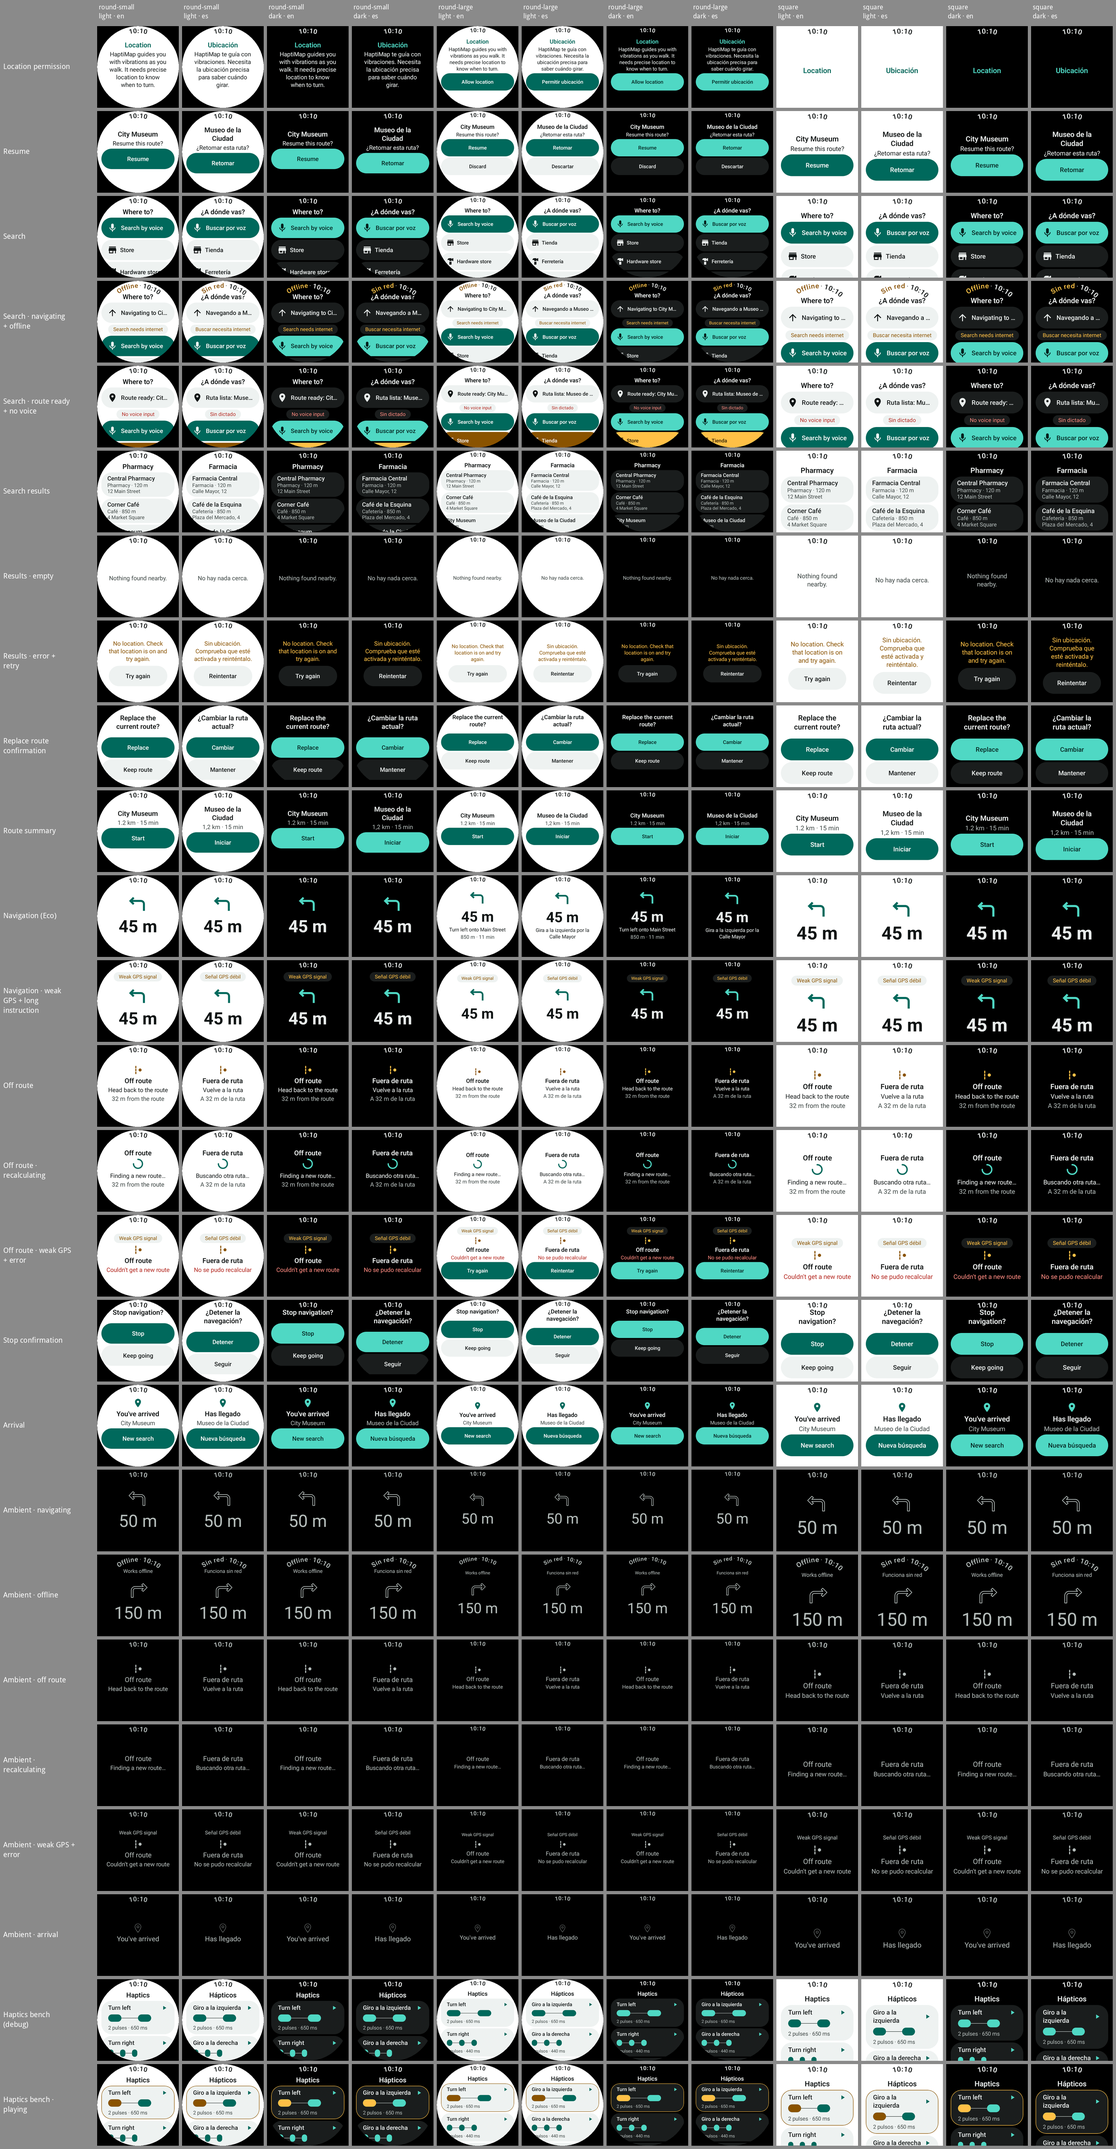
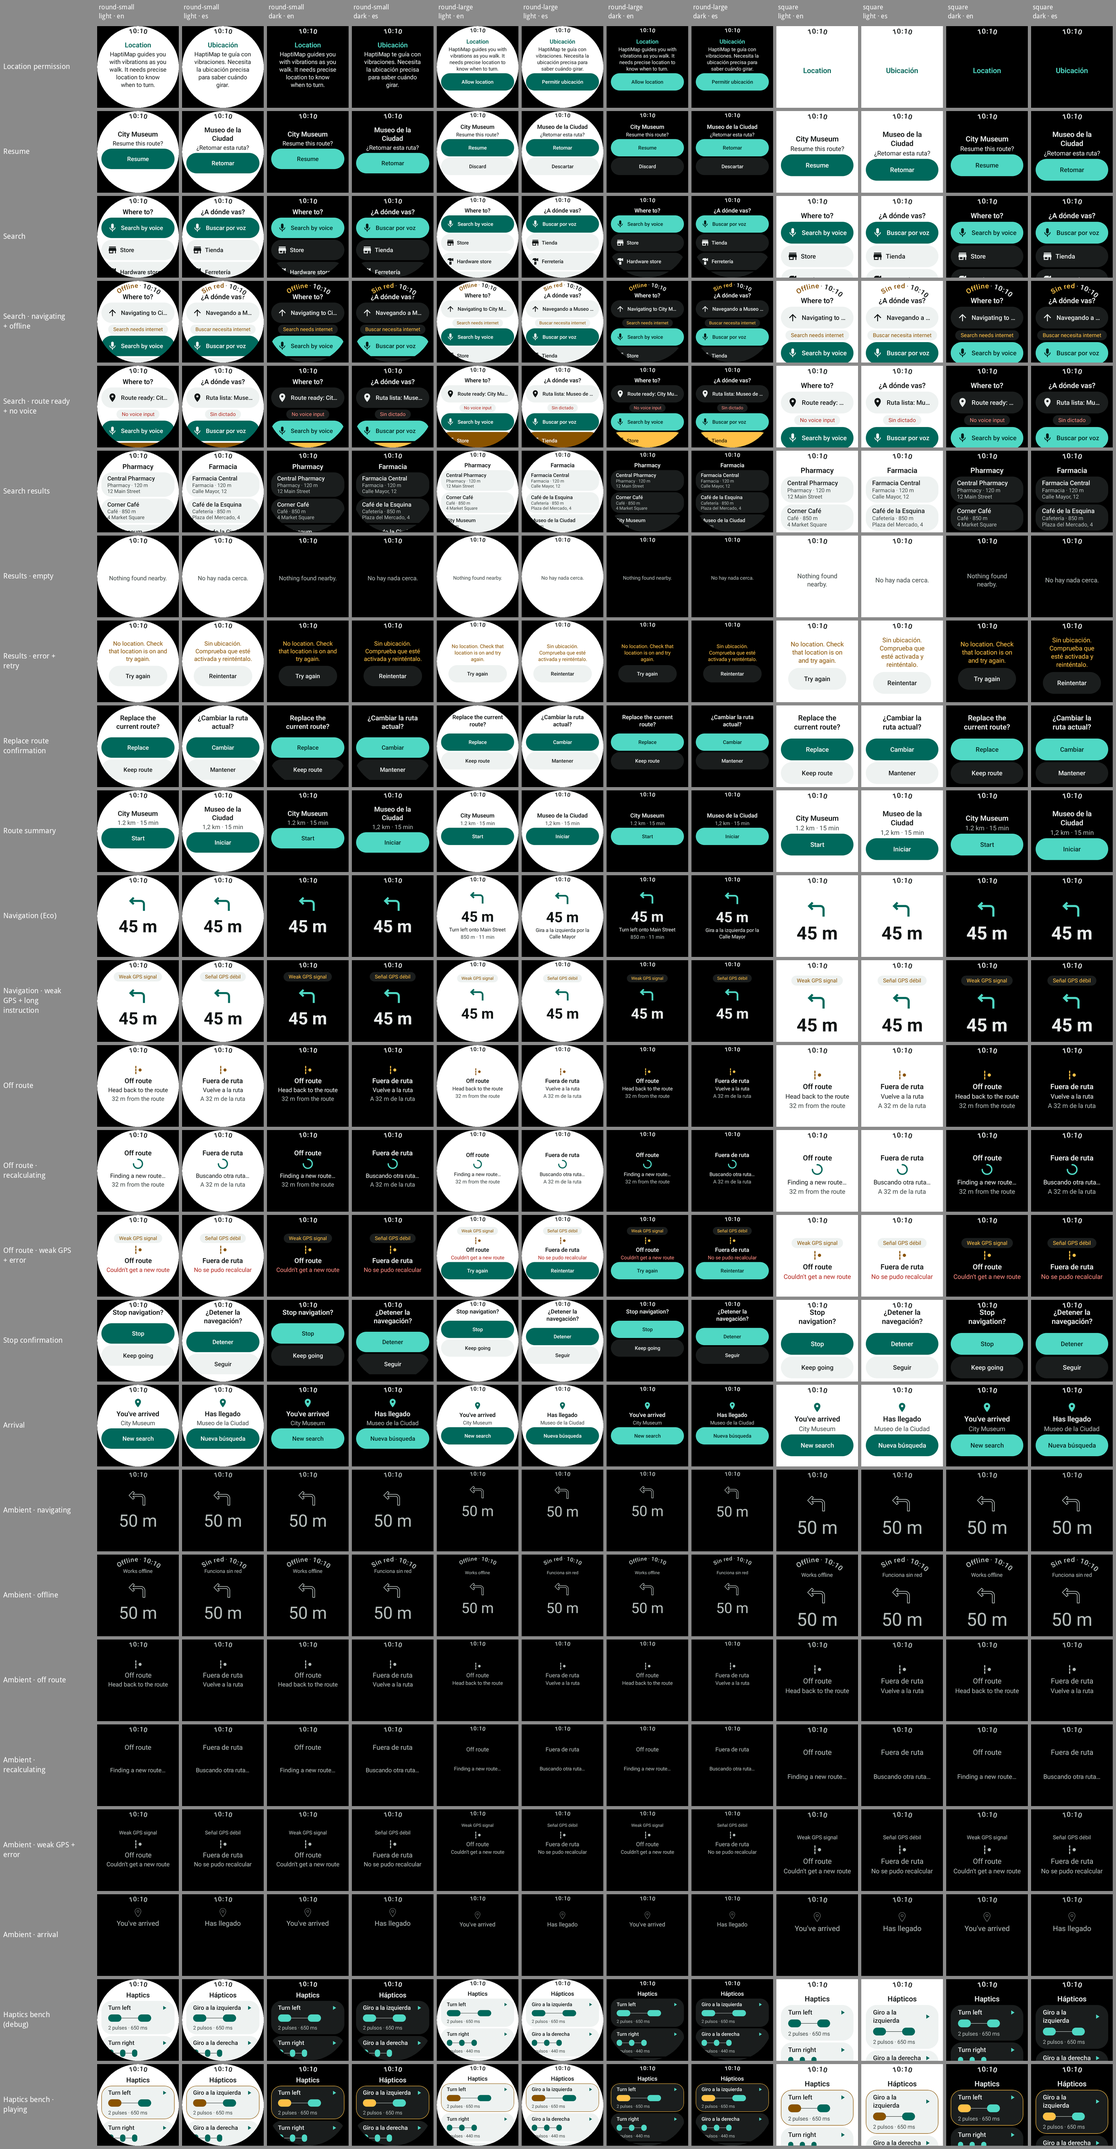
documentar el seguimiento del paso 12: la vista en su sitio, decisiones y línea base de lint
Paso 12: el arreglo (opción B), su test y la verificación en el emulador en las tres formas; aprobados
el paso de 100 m, la línea base de 22 avisos en :app y el ambiente sin navegación tal cual; Live Updates
para la versión 2. DESIGN_SYSTEM §18 y ARCHITECTURE al día, hoja de revisión regenerada y una línea en la
lista del paso 14.

diff --git a/docs/steps/12-pantalla-eco-aod.md b/docs/steps/12-pantalla-eco-aod.md
@@ -26,7 +26,7 @@ Before it, a separate fix: on square screens the curved clock touched the search
 | Decision | Why |
 |---|---|
 | Important events only vibrate; they never wake the screen | **Agreed.** Haptics are the main channel and the ambient view already shows the change; waking needs a screen-on wake lock and costs battery |
-| Ambient distance in coarse steps: 10 m below 100 m, 50 m to 500 m, 100 m to 1 km, 500 m beyond (nearest) | **Agreed.** The ambient state only changes on a step, a maneuver or a status, so the view redraws a few times a minute while walking instead of every second |
+| Ambient distance in coarse steps: 10 m below 100 m, 50 m to 500 m, 100 m to 1 km, 500 m beyond (nearest) | **Agreed**, including the 100 m step from 500 m to 1 km (approved in the follow-up, 2026-11-05). The ambient state only changes on a step, a maneuver or a status, so the view redraws a few times a minute while walking instead of every second |
 | No manual pixel shifting | The current Wear guideline (above): the system does it. **Changes the brief**, which said "if required" |
 | The Eco view **is** `NavigationScreen`; its first view (`NavigatingGlance`, `OffRouteGlance`, `ArrivedGlance`) is shared with ambient | Not specified beyond "refactor rather than build a second screen". No reference image of the navigation screen changed |
 | Ambient = a theme state: `HaptiMapTheme(ambient = true)`, set at the app root | Not specified. The existing components adapt by themselves (outline arrow, no spinner, no pill fill, thin type), with no ambient copies. At the root because Wear composes the clock in `AppScaffold`, outside any screen's theme |
@@ -34,7 +34,10 @@ Before it, a separate fix: on square screens the curved clock touched the search
 | The screens under the ambient view are stopped (lifecycle capped at `CREATED`) | Not specified. Otherwise the navigation screen underneath recollects each fix and the window redraws every second, which cancels the coarse steps. On exit they recollect the current value (no stale data) |
 | Ambient palette: one light gray (`Neutral75`) on black for every role, also warnings and errors | Not specified. No pure white (burn-in), no colors (low-bit screens map them unpredictably). The status text says what the color said |
 | Ambient keeps the notice (weak GPS / works offline) and the clock's "Offline" | Offline is one of the listed statuses; weak GPS explains a wrong distance |
-| Ambient drops: the instruction, remaining distance and time, distance to the route, the Stop button, the spinner | Secondary or stale between redraws, or an animation |
+| Ambient drops: the instruction, remaining distance and time, distance to the route, the Stop button, the spinner | Secondary or stale between redraws, or an animation. Since the follow-up they still **reserve their space** (below) |
+| The first view stays in place when entering and leaving ambient, on every shape | **Agreed** in the follow-up (option B): Eco unchanged, ambient reserves Eco's space (below) |
+| `:app` lint baseline: **22 warnings** | **Agreed** in the follow-up. All are version and manifest notices; dependency updates are step 15 |
+| Ambient without navigation (search, route summary) keeps the plain ambient: the screen in ambient colors, no layout of its own | **Agreed** in the follow-up |
 | The debug haptic badge still shows in ambient | Debug-only (empty in release). It's how the emulator shows that haptics keep playing |
 
 ## Acceptance criteria
@@ -68,7 +71,7 @@ clock ("Sin red · 21:16"): about 6 dp between the clock and the heading.
 | 4 | **Pass** | Asked; vibrate only. `HaptiHaptics` logs every turn, imminent, off-route, back-on-route and arrival pattern in ambient |
 | 5 | **Pass (emulator)** | Wake after 3 min in ambient: "552 m" while the service had just posted 554 m; square "693 m"; large round "45 m" |
 | 6 | **Pass** | DESIGN_SYSTEM §18; catalog section "Ambient (AOD)" / "Ambiente (AOD)" (the only new string). No new user-facing strings: ambient reuses the navigation ones |
-| 7 | **Pass** | `AmbientNavigationTest` (6 tests); `testDebugUnitTest validateDebugScreenshotTest lintDebug` green; lint 0 errors in every module; `:app` 22 warnings, **the same 22 on the commit before this step** (re-linted in a worktree today: the brief's 21 was before a newer dependency version was published; all 22 are version/manifest notices, none in step 12 code) |
+| 7 | **Pass** | `AmbientNavigationTest` (6 tests); `testDebugUnitTest validateDebugScreenshotTest lintDebug` green; lint 0 errors in every module; `:app` 22 warnings (the new baseline), **the same 22 on the commit before this step** (re-linted in a worktree today: the brief's 21 was before a newer dependency version was published; all 22 are version/manifest notices, none in step 12 code) |
 
 ## Emulator run (2026-11-04)
 
@@ -100,6 +103,62 @@ emulator the dimmed gray shows as darker gray.
 `wearos_square`, same API 37 image). The app falls back to the watch face after the second timeout when no
 navigation is running (no Ongoing Activity then), which is the expected Wear behavior.
 
+## Follow-up (2026-11-05): the first view stays in place
+
+On large round, Eco centered the arrow and distance **together with** the instruction (and the remaining line) when
+they fit; ambient centered them alone, so they moved down by about half the instruction's height on entering
+ambient (42 px measured on the old references). Two fixes were possible; option B was agreed:
+
+- A: Eco centers the glance alone. Less code, but Eco's first view loses the remaining line on large round and
+  "New search" on small-round arrival.
+- **B (done):** Eco unchanged; ambient reserves Eco's space.
+
+How, in the design system:
+
+- `AmbientScreenTemplate(glance, reservedDetails)` lays out with the same `FirstView` as `GlanceScreenTemplate`
+  (same safe area, same "details that fit" rule). With `placeDetails = false` the details are measured but not
+  placed, so they hold their space without drawing. The glance therefore sits where Eco puts it, on every shape.
+- `StatusMessage(loading = true)` keeps the spinner's space empty in ambient instead of dropping it, so
+  "Finding a new route…" doesn't move up either (it moved 27 px before).
+
+In `:feature:navigation-ui` the details lists are shared functions (`navigatingDetails`, `offRouteDetails`,
+`arrivedDetails`), used by Eco and by ambient. `AmbientNavigationUi` now carries the instruction, whether there is a
+distance to the route, and the destination: they change with a maneuver, a status or arrival, which already
+redrew, so ambient still doesn't redraw with each fix. What changes each fix is reserved with a fixed one-line value
+(remaining "0 m · 0 min", distance to the route "0 m"). Shortcut: if the distance to the route ever wrapped to
+two lines in Eco, ambient would sit a line lower; it is one line on every reference.
+
+**Guard.** `AmbientPositionTest` (JVM) reads the screenshot references: each ambient screenshot now uses the same
+state as its Eco twin, and every lit band of the ambient view (dark, three shapes, two languages, 9 states) must sit
+on the rows of an Eco band within 3 px. With the old references it fails (42 px, large round). The references are
+declared test inputs, so it re-runs after `updateDebugScreenshotTest`.
+
+**Screenshots.** Only ambient references changed: the 9 `AmbientNavigation*` states (102 images; light and dark
+are identical, and a few combinations did not move) and `AmbientNoticeAndStatus`, `AmbientTemplateOffline`
+(`:core:designsystem`, the spinner space and the shared layout). No Eco or other screen image changed. Review
+sheet regenerated.
+
+**Checks.** `testDebugUnitTest validateDebugScreenshotTest lintDebug` green; lint 0 errors in every module;
+`:app` 22 warnings (the baseline).
+
+**Emulator (2026-11-05).** Debug build, sample route, "Walking" simulator; Eco captured, `KEYCODE_SLEEP`
+(`mWakefulness=Dozing`), ambient captured, `KEYCODE_WAKEUP`, Eco captured. Lit rows compared:
+
+| AVD | Language · theme | Eco → ambient → Eco | Worst row offset |
+|---|---|---|---|
+| Small round | ES · dark | "217 m" → "200 m" → "209 m" | 0.5 px |
+| Large round | ES · dark, instruction on two lines | "206 m" → "200 m" → "199 m" | 0 px (was ≈ 42 px) |
+| Square | EN · light | "214 m" → "200 m" → "206 m" | 0.5 px |
+
+The outline arrow is about 2 px taller than the filled one (its stroke), centered on the same point.
+
+| Small round | Large round | Square |
+|---|---|---|
+| <img src="img/12/position-small.png" width="300"> | <img src="img/12/position-large.png" width="300"> | <img src="img/12/position-square.png" width="300"> |
+
+Not re-measured: the ambient frame count (the ambient state only gained values that change with a maneuver, status
+or arrival); off-route states on the emulator (covered by the screenshot guard).
+
 ## Pending: requires physical watch
 
 In the step 14 checklist ([step 09](09-motor-haptico.md#real-watch-calibration-checklist-for-step-14), section 8):
@@ -109,12 +168,10 @@ the real watch lets an ambiactive app redraw.
 
 ## Pending and design questions
 
-- **Position shift on entering ambient.** Eco centers the arrow and distance together with the instruction when
-  it fits (large round); ambient centers them alone, so on large round they move down by about half the
-  instruction's height. Keeping them fixed would mean ambient reserving the instruction's space. Is the shift
-  acceptable?
+- ~~Position shift on entering ambient~~: fixed in the follow-up (above).
 - **Low-bit ambient.** Compose text and vector icons are always anti-aliased; Wear only asks to turn it off in
-  custom `Canvas`/`Paint` drawing, which this view doesn't have. If a real low-bit screen shows halos, draw the
-  arrows without anti-aliasing (step 14).
-- **Ambient without navigation** (search, summary): the screen shows in ambient colors but has no layout of its own.
-- **Live Updates** (Wear OS 7+) as the successor of the Ongoing Activity: later, with the step 10 notification.
+  custom `Canvas`/`Paint` drawing, which this view doesn't have. No change now (agreed); it stays in the step 14
+  checklist: if a real low-bit screen shows halos, draw the arrows without anti-aliasing.
+- **Ambient without navigation** (search, summary): no change (agreed); the screen shows in ambient colors with no layout of its own.
+- **Live Updates** (Wear OS 7+) as the successor of the Ongoing Activity: **version 2** (agreed), with the step 10
+  notification. Until then the Ongoing Activity keeps the app on screen.

diff --git a/DESIGN_SYSTEM.md b/DESIGN_SYSTEM.md
@@ -673,10 +673,10 @@ existing components adapt; `HaptiMapTheme.ambient` tells a component it is in am
 | `AmbientHaptiColors` | color roles | Black `background` **and `surface`** (so pills and secondary buttons lose their fill), every content role `Neutral75` (light gray, not white: burn-in; no hue: low-bit screens). Same in light and dark (§3) |
 | `AmbientTypography` | type | The same sizes and line heights as `DefaultTypography`, so nothing moves on entering; `distance`, `title`, `label` at `Normal` weight: thin strokes, fewer lit pixels |
 | `ArrowDirection.outlineIcon` / `DirectionArrow` | atom | `ic_turn_left_outline`, `ic_turn_right_outline`, `ic_straight_outline`, `ic_arrive_outline`: the same path as the filled icon, stroked 0.6 / 24 with no fill (right is the mirror of left, as before). `DirectionArrow` picks them by itself |
-| `StatusMessage(loading = true)` | organism | No spinner: no animation in ambient; the text ("Finding a new route…") says it |
+| `StatusMessage(loading = true)` | organism | No spinner: no animation in ambient; the text ("Finding a new route…") says it. The spinner's space stays, empty, so the text doesn't move |
 | `NoticeLabel` | atom | Text only (its pill is `surface`, now black) |
 | `HaptiTimeText` | atom | Gray, with the black time-text background, from the root theme. Wear updates it once a minute |
-| `AmbientScreenTemplate(content)` | template | Content centered in the same safe area as `GlanceScreenTemplate`'s first view (`safeBottom()` is shared), opaque black, no scroll or crown. Wraps its content in the ambient theme. No manual pixel shifting: with `isBurnInProtectionRequired` the system shifts the display, and `ScreenScaffold` padding keeps the ≥ 10 px edge margin |
+| `AmbientScreenTemplate(glance, reservedDetails)` | template | Lays out with `GlanceScreenTemplate`'s own `FirstView` (same safe area, same "details that fit" rule), so `glance` sits exactly where the interactive screen puts it. `reservedDetails` are the interactive screen's details: measured, not placed, so they hold their space without drawing; values that change every fix go in as a fixed value of the same height. Opaque black, no scroll or crown. Wraps its content in the ambient theme. No manual pixel shifting: with `isBurnInProtectionRequired` the system shifts the display, and `ScreenScaffold` padding keeps the ≥ 10 px edge margin |
 
 Previews: `DirectionArrowAmbientPreview`, `AmbientScreenTemplatePreview`, and `PreviewSurface(ambient = true)`.
 Catalog: section "Ambient (AOD)" / "Ambiente (AOD)", a black block with the indicator, the four outline arrows,
@@ -692,13 +692,18 @@ Wear composes the clock inside `AppScaffold`, outside any screen, so only the ro
 
 | State | Shows | Not shown (Eco only) |
 |---|---|---|
-| Navigating | Notice (weak GPS, else "Works offline"), outline arrow, **approximate** distance (10 / 50 / 100 / 500 m steps) | Instruction, remaining distance and time, Stop |
-| Off route / recalculating / offline / failed | Weak GPS notice, `ic_off_route` (not while recalculating), "Off route", the status line by the §13 precedence, without spinner | Distance to the route, Retry, Stop |
-| Arrived | Outline pin (`Medium`), "You've arrived" | Destination, New search |
+| Navigating | Notice (weak GPS, else "Works offline"), outline arrow, **approximate** distance (approved steps: nearest 10 m below 100 m, 50 m to 500 m, 100 m to 1 km, 500 m beyond) | Instruction, remaining distance and time, Stop (their space is reserved) |
+| Off route / recalculating / offline / failed | Weak GPS notice, `ic_off_route` (not while recalculating), "Off route", the status line by the §13 precedence, without spinner | Distance to the route, Retry, Stop (their space is reserved) |
+| Arrived | Outline pin (`Medium`), "You've arrived" | Destination, New search (their space is reserved) |
+
+**Nothing moves on entering or leaving ambient**, on any shape: the same sizes (`AmbientTypography`), the same
+layout (`FirstView`), the same reserved space for what ambient doesn't draw. `AmbientPositionTest`
+(`:feature:navigation-ui`) checks it on the screenshot references, each ambient screenshot against its Eco twin.
 
 Offline also shows as "Offline · " / "Sin red · " in the clock. Lit pixels, measured on the references: at most
 6.2 % (square, "12.5 km" with a notice); Wear's limit is 15 %.
 
 **Rules for future ambient screens.** Compose the interactive screen's pieces inside `AmbientScreenTemplate`; drop
-what goes stale between redraws, what animates and what you would tap; never add a hue or a fill for ambient; if a
+what goes stale between redraws, what animates and what you would tap, but pass the interactive details as
+`reservedDetails` so nothing moves; never add a hue or a fill for ambient; if a
 custom `Canvas` draws in ambient, turn off anti-aliasing when `isLowBitAmbientSupported`.

diff --git a/ARCHITECTURE.md b/ARCHITECTURE.md
@@ -560,10 +560,10 @@ graph LR
 
 | Piece | Where | Responsibility |
 |---|---|---|
-| `AmbientNavigationUi` (`Guidance`, `OffRoute`, `Arrived`) and `ambientNavigationUi(state)` | `:feature:navigation-ui` | Pure: keeps the arrow, the notice, the off-route status and arrival; drops what changes every fix (instruction, remaining, distance to the route, the stop dialog); null without navigation. Unit-tested (`AmbientNavigationTest`) |
-| `approximateMeters(m)` | same | Nearest 10 m below 100 m, 50 m to 500 m, 100 m to 1 km, 500 m beyond |
+| `AmbientNavigationUi` (`Guidance`, `OffRoute`, `Arrived`) and `ambientNavigationUi(state)` | `:feature:navigation-ui` | Pure: keeps the arrow, the notice, the off-route status and arrival; drops what changes every fix (remaining, the distance to the route's value, the stop dialog); keeps, only to reserve their space, the instruction, whether there is a distance to the route, and the destination (they change with a maneuver, a status or arrival); null without navigation. Unit-tested (`AmbientNavigationTest`) |
+| `approximateMeters(m)` | same | Nearest 10 m below 100 m, 50 m to 500 m, 100 m to 1 km, 500 m beyond (approved) |
 | `NavigationViewModel.ambientState` | same | `uiState.map(::ambientNavigationUi)` as a `StateFlow`: equal values don't emit, so a fix inside the same step causes no recomposition |
-| `AmbientNavigationScreen` / `AmbientNavigationContent` | same | The shared first views (`NavigatingGlance`, `OffRouteGlance`, `ArrivedGlance`, also used by `NavigationScreen`) in `AmbientScreenTemplate` |
+| `AmbientNavigationScreen` / `AmbientNavigationContent` | same | The shared first views (`NavigatingGlance`, `OffRouteGlance`, `ArrivedGlance`, also used by `NavigationScreen`) in `AmbientScreenTemplate`, with the shared details lists (`navigatingDetails`, `offRouteDetails`, `arrivedDetails`) as reserved space, so the first view stays where Eco puts it |
 | `rememberStoppableLifecycleOwner(stopped)` | `:app` | The Activity's lifecycle, capped at `CREATED` while `stopped`, provided as `LocalLifecycleOwner` to the nav host. Its screens stop collecting (`collectAsStateWithLifecycle`), so nothing under the ambient view redraws; on exit they collect the current value |
 
 **Update cost.** An ambiactive app can redraw whenever its state changes; Wear's `AmbientTickEffect` (about once a
@@ -578,3 +578,6 @@ intent already opens `MainActivity` with `SINGLE_TOP`.
 
 **Exiting ambient.** The theme switches back, the overlay leaves composition, the nav host's screens return to
 `RESUMED` and read the current `StateFlow` value: no stale distance.
+
+**Later (version 2).** Live Updates (Wear OS 7+) replace the Ongoing Activity as the way the app stays on screen
+during navigation; they come with the step 10 notification.

diff --git a/docs/steps/09-motor-haptico.md b/docs/steps/09-motor-haptico.md
@@ -180,7 +180,7 @@ only `HapticTokens`, `HapticEngine.MIN_GAP` and `NavigationThresholds`.
 - [ ] Ambient redraws: on the watch, does the view update on a turn, off route, recalculating and arrival as on the emulator, and how soon after the event? (Some watches may limit redraws.)
 - [ ] Battery per hour of navigation in ambient vs screen off vs AOD disabled, with `dumpsys batterystats`; compare the screen's share. Decide whether the coarse distance steps should be coarser.
 - [ ] Readability outdoors, in sunlight and at night, of the ambient view; and whether the vibration plus a glance is enough without waking (the agreed "vibrate only").
-- [ ] Entering and leaving ambient on the wrist (palm, wrist down, tilt to wake): the Eco view comes back with the current distance and nothing flickers.
+- [ ] Entering and leaving ambient on the wrist (palm, wrist down, tilt to wake): the Eco view comes back with the current distance, nothing flickers, and the arrow and distance stay in place (emulator: within 0.5 px on all three shapes).
 - [ ] The Ongoing Activity keeps the ambient view on screen during a long walk instead of the watch face.
 
 ## Pending and ideas for step 14
